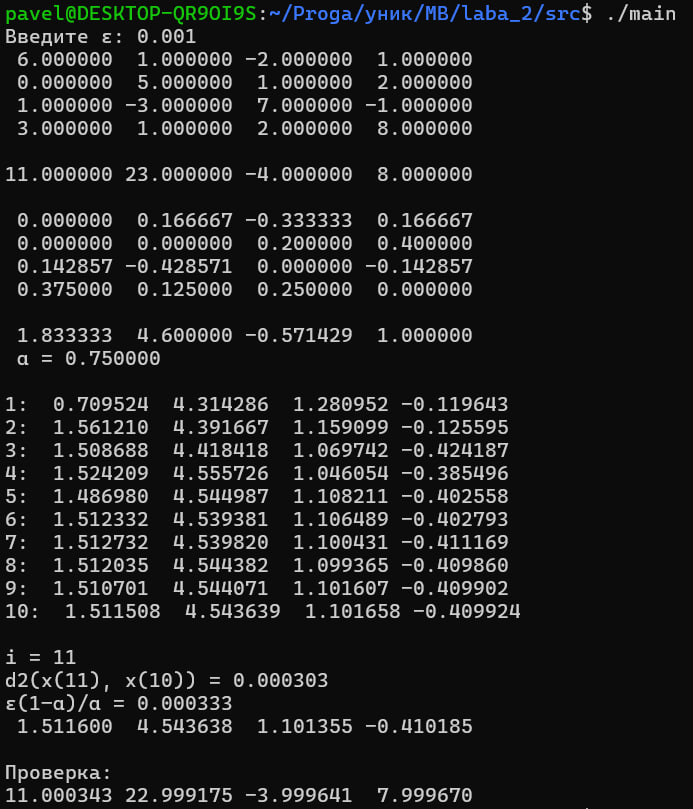
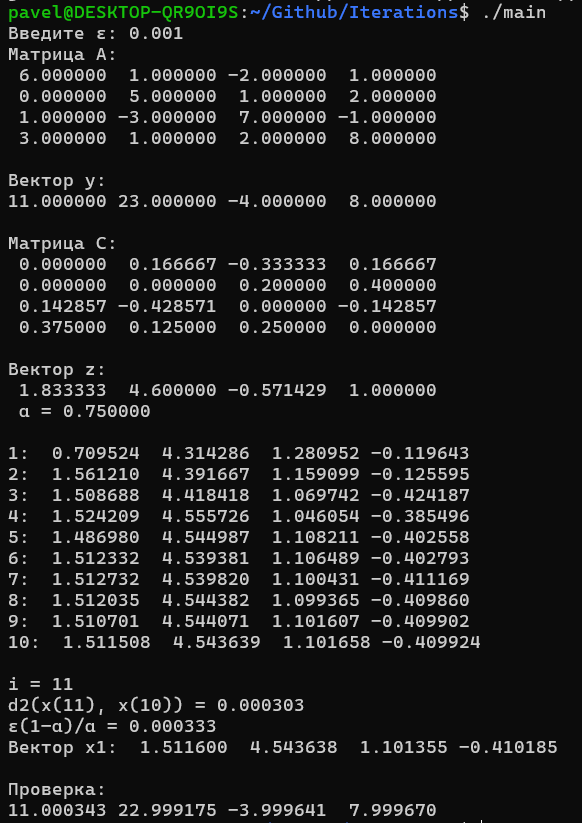
Поправил вывод на экран

Changed region(s): [[0.0, 0.0, 0.9897, 1.0], [0.8041, 0.8962, 0.9588, 0.9271]]

diff --git a/main.cpp b/main.cpp
@@ -23,9 +23,11 @@ int main(int argc, char **argv) {
         arr2 = argv[2];
 
         Matrix2D A(arr1);
+        cout << "Матрица А:" << endl;
         cout << A;
         
         vector vec(arr2);
+        cout << "Вектор y:" << endl;
         cout << vec;
         cout << endl;
 
@@ -35,6 +37,7 @@ int main(int argc, char **argv) {
         if(tmp.prov(A)) {
             vector x1(size);
             x1 = tmp.urav(A, vec, EPS);
+            cout << "Вектор x1:" << endl;
             cout << x1;
             cout << endl;
 
@@ -49,16 +52,19 @@ int main(int argc, char **argv) {
         size = 4;
         Matrix2D A(size);
         A.fill();
+        cout << "Матрица А:" << endl;
         cout << A;
 
         vector vec(size);
         vec.fill();
+        cout << "Вектор y:" << endl;
         cout << vec;
         cout << endl;
 
         iterat tmp(size);
         vector x1(size);
         x1 = tmp.urav(A, vec, EPS);
+        cout << "Вектор x1: ";
         cout << x1;
         cout << endl;
 

diff --git a/iterat.cpp b/iterat.cpp
@@ -16,7 +16,9 @@ vector iterat::urav(Matrix2D A, vector y, double EPS) {
     CorrecVec_z(z, A);
     double q = ratio(C);
 
+    printf("Матрица С:\n");
     C.print();
+    printf("Вектор z:\n");
     z.print();
     printf(" α = %f\n\n", q);
     
